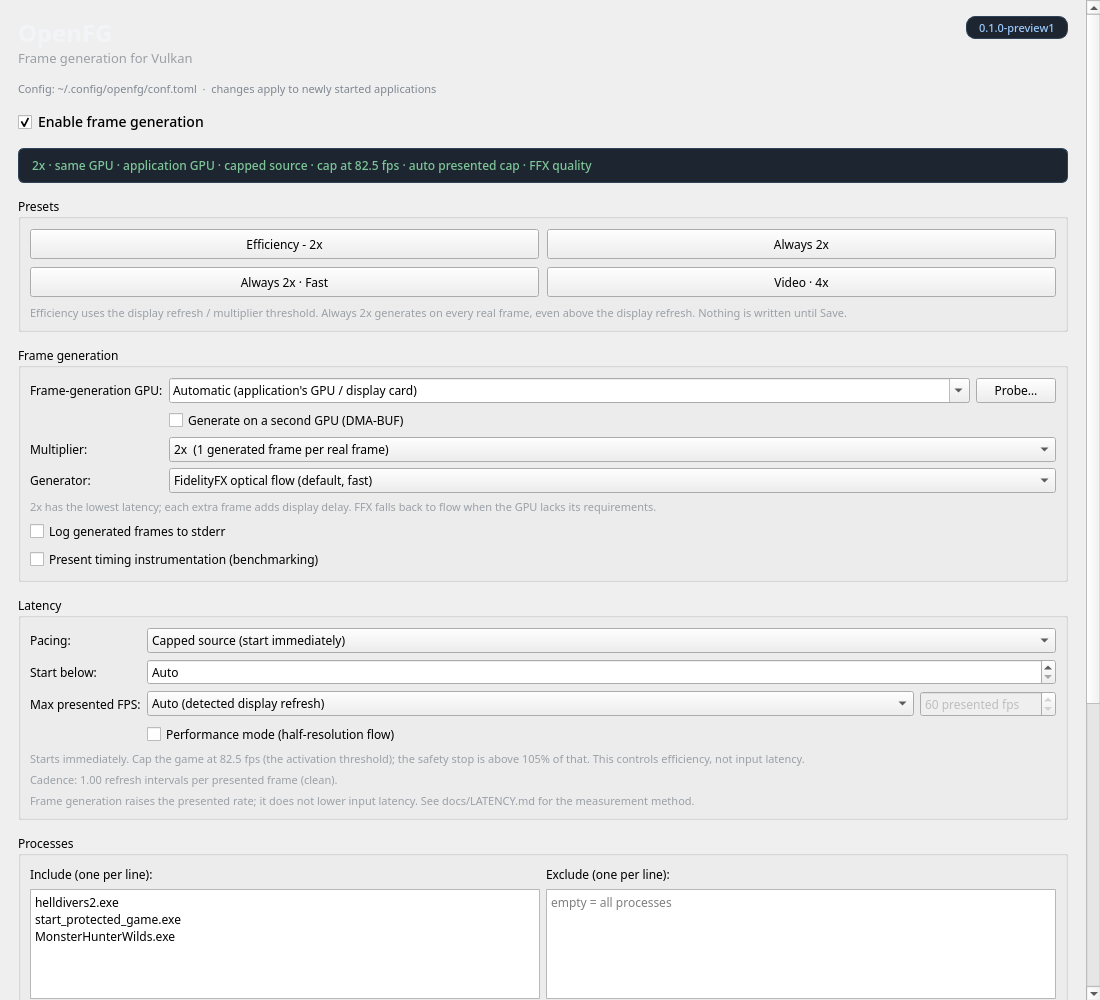
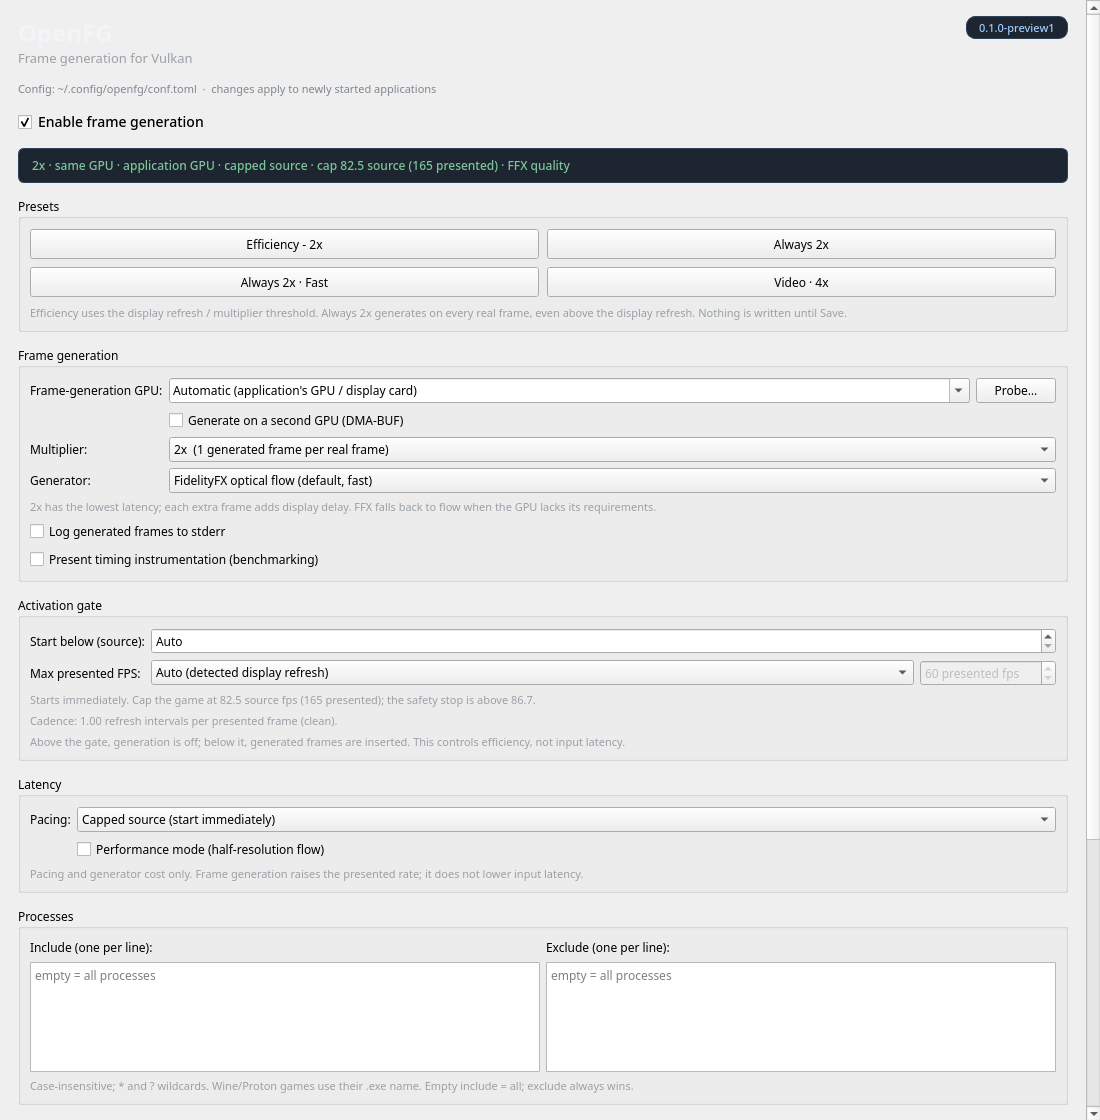
gui: make the gate a first-class section
Split the gate from latency, label Start below as a source rate, show the presented rate in the summary and notes, and warn when the gate exceeds the display. Keep the always-generate presets explicit and refresh the screenshot with generic process lists.

diff --git a/gui/openfg-gui.py b/gui/openfg-gui.py
@@ -582,24 +582,11 @@ class MainWindow(QtWidgets.QMainWindow):
 
         root.addWidget(settings)
 
-        # Latency settings
-        latency = QtWidgets.QGroupBox("Latency")
-        latency_layout = QtWidgets.QVBoxLayout(latency)
-        latency_form = QtWidgets.QFormLayout()
-        latency_form.setFieldGrowthPolicy(QtWidgets.QFormLayout.ExpandingFieldsGrow)
-
-        self.pacing = QtWidgets.QComboBox()
-        self.pacing.addItem("Adaptive (1 s threshold dwell)", "adaptive")
-        self.pacing.addItem("Capped source (start immediately)", "capped")
-        self.pacing.setSizePolicy(
-            QtWidgets.QSizePolicy.Expanding, QtWidgets.QSizePolicy.Fixed)
-        index = self.pacing.findData(self.config["pacing"])
-        self.pacing.setCurrentIndex(index if index >= 0 else 0)
-        self.pacing.setToolTip(
-            "Adaptive waits for a sustained drop below the target. Capped "
-            "starts immediately; cap the game yourself at refresh ÷ multiplier."
-        )
-        latency_form.addRow("Pacing:", self.pacing)
+        # Activation gate
+        gate = QtWidgets.QGroupBox("Activation gate")
+        gate_layout = QtWidgets.QVBoxLayout(gate)
+        gate_form = QtWidgets.QFormLayout()
+        gate_form.setFieldGrowthPolicy(QtWidgets.QFormLayout.ExpandingFieldsGrow)
 
         self.target_fps = QtWidgets.QSpinBox()
         self.target_fps.setRange(0, 1000)
@@ -610,21 +597,21 @@ class MainWindow(QtWidgets.QMainWindow):
             QtWidgets.QSizePolicy.Expanding, QtWidgets.QSizePolicy.Fixed)
         self.target_fps.setValue(self.config["target_fps"])
         self.target_fps.setToolTip(
-            "Manual activation threshold: start generation only below this "
-            "native rate. 0 = no manual threshold; the presented cap still "
-            "applies. The effective threshold is min(this, max presented / "
-            "multiplier). Use about 82 fps for 2x on 165 Hz."
+            "Manual source-rate gate: generate only below this native rate. "
+            "0 = no manual gate; the presented cap still applies. The "
+            "effective gate is min(this, max presented / multiplier). On "
+            "165 Hz with 2x, 82.5 source = 165 presented."
         )
-        self.target_note = hint("")
-        latency_form.addRow("Start below:", self.target_fps)
+        gate_form.addRow("Start below (source):", self.target_fps)
 
         self.max_presented = QtWidgets.QComboBox()
         self.max_presented.addItem("Off", 0)
         self.max_presented.addItem("Auto (detected display refresh)", -1)
         self.max_presented.addItem("Custom", 1)
         self.max_presented.setToolTip(
-            "Stop when presented fps would exceed this value. Auto reads the "
-            "display refresh; set OPENFG_REFRESH if detection fails."
+            "Presented-rate cap; also sets the automatic source gate = this / "
+            "multiplier. Auto reads the display refresh; Off disables the "
+            "gate. 165 presented with 2x = 82.5 source."
         )
         self.max_presented_spin = QtWidgets.QSpinBox()
         self.max_presented_spin.setRange(20, 1000)
@@ -646,8 +633,37 @@ class MainWindow(QtWidgets.QMainWindow):
         cap_row = QtWidgets.QHBoxLayout()
         cap_row.addWidget(self.max_presented, 1)
         cap_row.addWidget(self.max_presented_spin)
-        latency_form.addRow("Max presented FPS:", cap_row)
+        gate_form.addRow("Max presented FPS:", cap_row)
         self.max_presented_spin.setEnabled(self.max_presented.currentData() == 1)
+
+        self.target_note = hint("")
+        self.cadence_note = hint("")
+        gate_layout.addLayout(gate_form)
+        gate_layout.addWidget(self.target_note)
+        gate_layout.addWidget(self.cadence_note)
+        gate_layout.addWidget(hint(
+            "Above the gate, generation is off; below it, generated frames "
+            "are inserted. This controls efficiency, not input latency."))
+        root.addWidget(gate)
+
+        # Latency settings
+        latency = QtWidgets.QGroupBox("Latency")
+        latency_layout = QtWidgets.QVBoxLayout(latency)
+        latency_form = QtWidgets.QFormLayout()
+        latency_form.setFieldGrowthPolicy(QtWidgets.QFormLayout.ExpandingFieldsGrow)
+
+        self.pacing = QtWidgets.QComboBox()
+        self.pacing.addItem("Adaptive (1 s threshold dwell)", "adaptive")
+        self.pacing.addItem("Capped source (start immediately)", "capped")
+        self.pacing.setSizePolicy(
+            QtWidgets.QSizePolicy.Expanding, QtWidgets.QSizePolicy.Fixed)
+        index = self.pacing.findData(self.config["pacing"])
+        self.pacing.setCurrentIndex(index if index >= 0 else 0)
+        self.pacing.setToolTip(
+            "Adaptive waits for a sustained drop below the target. Capped "
+            "starts immediately; cap the game yourself at the source gate."
+        )
+        latency_form.addRow("Pacing:", self.pacing)
 
         self.performance = QtWidgets.QCheckBox(
             "Performance mode (half-resolution flow)")
@@ -659,13 +675,9 @@ class MainWindow(QtWidgets.QMainWindow):
         latency_form.addRow("", self.performance)
 
         latency_layout.addLayout(latency_form)
-        latency_layout.addWidget(self.target_note)
-        self.cadence_note = hint("")
-        latency_layout.addWidget(self.cadence_note)
         latency_layout.addWidget(hint(
-            "Frame generation raises the presented rate; it does not lower "
-            "input latency. See docs/LATENCY.md for the measurement method."))
-
+            "Pacing and generator cost only. Frame generation raises the "
+            "presented rate; it does not lower input latency."))
         root.addWidget(latency)
 
         # Process filters
@@ -878,25 +890,20 @@ class MainWindow(QtWidgets.QMainWindow):
             gpu = self._selected_gpu()
             gpu_text = "application GPU" if gpu == "auto" else gpu
             cross = "second GPU" if self.cross_gpu.isChecked() else "same GPU"
-            target = int(self.target_fps.value())
-            cap = int(self.max_presented.currentData())
             pacing = self.pacing.currentData()
             pacing_text = "capped source" if pacing == "capped" else "adaptive"
             threshold = self._effective_threshold()
             if pacing == "capped":
                 target_text = (
-                    f"cap at {threshold:.1f} fps" if threshold > 0
-                    else "always generating")
+                    f"cap {threshold:.1f} source "
+                    f"({threshold * multiplier:.0f} presented)"
+                    if threshold > 0 else "always generating")
             elif threshold > 0:
-                target_text = f"starts below {threshold:.1f} fps"
+                target_text = (
+                    f"gate {threshold:.1f} source "
+                    f"({threshold * multiplier:.0f} presented)")
             else:
-                target_text = "always generating"
-            if cap == -1:
-                cap_text = " · auto presented cap"
-            elif cap == 1:
-                cap_text = f" · ≤{self.max_presented_spin.value()} presented fps"
-            else:
-                cap_text = ""
+                target_text = f"always generating ({multiplier}× source)"
             gen = str(self.generator.currentData())
             gen_text = {"ffx": "FFX", "flow": "flow", "blend": "blend",
                         "hold": "hold", "off": "off"}.get(gen, gen)
@@ -905,7 +912,7 @@ class MainWindow(QtWidgets.QMainWindow):
                            else "quality")
                 gen_text += f" {quality}"
             text = (f"{multiplier}x · {cross} · {gpu_text} · {pacing_text} · "
-                    f"{target_text}{cap_text} · {gen_text}")
+                    f"{target_text} · {gen_text}")
             video_players = [line.strip() for line in
                              self.video_processes.toPlainText().splitlines() if line.strip()]
             if video_players:
@@ -944,15 +951,17 @@ class MainWindow(QtWidgets.QMainWindow):
         return cap_threshold
 
     def _update_cadence_note(self) -> None:
-        cap = int(self.max_presented.currentData())
         refresh = self.display_refresh if self.display_refresh >= 20 else 0.0
-        if cap == 0 or refresh <= 0:
+        multiplier = max(2, int(self.multiplier.currentData()))
+        threshold = self._effective_threshold()
+        if threshold <= 0 or refresh <= 0:
             self.cadence_note.setText("")
             return
-        presented = (
-            refresh if cap == -1 else float(self.max_presented_spin.value()))
-        if presented <= 0:
-            self.cadence_note.setText("")
+        presented = threshold * multiplier
+        if presented > refresh * 1.01:
+            self.cadence_note.setText(
+                f"Cadence: {presented:.0f} presented fps exceeds "
+                f"{refresh:.0f} Hz; frames will be dropped.")
             return
         ratio = refresh / presented
         nearest = round(ratio)
@@ -969,44 +978,40 @@ class MainWindow(QtWidgets.QMainWindow):
 
     def _update_target_note(self) -> None:
         self._update_cadence_note()
-        if self.pacing.currentData() == "capped":
-            threshold = self._effective_threshold()
-            if threshold > 0:
-                self.target_note.setText(
-                    f"Starts immediately. Cap the game at {threshold:.1f} fps "
-                    "(the activation threshold); the safety stop is above "
-                    "105% of that. This controls efficiency, not input "
-                    "latency.")
-            else:
-                self.target_note.setText(
-                    "Starts immediately. No activation threshold: cap the "
-                    "game or generation runs on every real frame. This "
-                    "controls efficiency, not input latency.")
-            return
         threshold = self._effective_threshold()
         target = int(self.target_fps.value())
         cap_threshold = self._cap_threshold()
+        multiplier = max(2, int(self.multiplier.currentData()))
+        if self.pacing.currentData() == "capped":
+            if threshold > 0:
+                self.target_note.setText(
+                    f"Starts immediately. Cap the game at {threshold:.1f} "
+                    f"source fps ({threshold * multiplier:.0f} presented); "
+                    f"the safety stop is above {threshold * 1.05:.1f}.")
+            else:
+                self.target_note.setText(
+                    "Starts immediately. No gate: every real frame is generated.")
+            return
         if threshold <= 0:
             self.target_note.setText(
-                "No automatic threshold: generates on every real frame; each "
-                "multiplier adds display delay.")
+                "No gate: every real frame is generated. Presented is "
+                f"{multiplier}× source and can exceed the display.")
         elif target <= 0:
             self.target_note.setText(
-                f"Auto threshold: {threshold:.1f} fps "
-                f"(display refresh / multiplier). Above this, OpenFG stays "
-                "off. This controls efficiency, not input latency.")
+                f"Auto gate: {threshold:.1f} source fps "
+                f"({threshold * multiplier:.0f} presented with {multiplier}x).")
         elif cap_threshold > 0 and target > cap_threshold:
             self.target_note.setText(
-                f"Manual target {target} fps is above the automatic cap "
-                f"{cap_threshold:.1f} fps; the effective threshold is "
-                f"{cap_threshold:.1f} fps. Turn the presented cap off to use "
-                "the manual value (it can exceed the display). This controls "
-                "efficiency, not input latency.")
+                f"Manual {target} is above the automatic {cap_threshold:.1f} "
+                f"source gate; effective gate {cap_threshold:.1f} source "
+                f"({cap_threshold * multiplier:.0f} presented). Turn the "
+                f"presented cap off to use {target} "
+                f"({target * multiplier:.0f} presented; it can exceed the "
+                "display).")
         else:
             self.target_note.setText(
-                f"Manual threshold: {target} fps; automatic cap "
-                f"{cap_threshold:.1f} fps. Above this, OpenFG stays off. "
-                "This controls efficiency, not input latency.")
+                f"Manual gate: {target} source fps "
+                f"({target * multiplier:.0f} presented with {multiplier}x).")
 
     def _collect(self) -> dict:
         return {

diff --git a/src/config/config.cpp b/src/config/config.cpp
@@ -826,7 +826,8 @@ target_fps = 0
 
 # Cap presented frames per second and set the automatic activation threshold:
 # source threshold = this value / multiplier. -1 = detected display refresh
-# (the efficiency default), 0 = off, or an explicit value such as 165.
+# (recommended for efficiency), 0 = off (always generate), or an explicit
+# value such as 165.
 max_presented_fps = 0
 
 # Half-resolution flow: for flow it also narrows refinement; for ffx it runs

diff --git a/README.md b/README.md
@@ -67,8 +67,9 @@ process loads it; the config decides whether it is active. Use
 
 ## Control panel
 
-`openfg-gui` edits the same file. It includes presets, a GPU capability probe,
-process/video profiles and a live summary of the effective mode.
+`openfg-gui` edits the same file. It includes presets, the activation gate, a
+GPU capability probe, process/video profiles and a live summary of the
+effective mode.
 
 ![OpenFG Control](docs/assets/openfg-control.png)
 
@@ -92,6 +93,10 @@ automatic threshold is **display refresh ÷ multiplier**:
 | 165 Hz | 82.5 fps | 55 fps | 41.25 fps |
 | 144 Hz | 72 fps | 48 fps | 36 fps |
 | 120 Hz | 60 fps | 40 fps | 30 fps |
+
+The threshold is a **source** rate. With 2x, 82.5 source = 165 presented;
+120 source would be 240 presented, beyond a 165 Hz display. The UI labels it
+**Start below (source)**.
 
 Above that rate (with a small hysteresis band) the layer turns off: no
 generated frames, no generator work and no added display delay. That is what
@@ -145,7 +150,7 @@ The layer reads `$XDG_CONFIG_HOME/openfg/conf.toml`, falling back to
 | `generator` | `"ffx"` | `ffx`, `flow`, `blend`, `hold` or `off`. |
 | `performance_mode` | `false` | Half-resolution flow: cheaper, slightly softer edges. |
 | `pacing` | `"adaptive"` | `adaptive` waits for a sustained drop; `capped` starts immediately. |
-| `target_fps` | `0` | Manual activation threshold. `0` = no manual threshold; the presented cap still applies. The effective threshold is `min(target_fps, max_presented_fps / multiplier)`. |
+| `target_fps` | `0` | Manual source-rate threshold. `0` = no manual threshold; the presented cap still applies. The effective threshold is `min(target_fps, max_presented_fps / multiplier)`. |
 | `max_presented_fps` | `0` | Presented-frame cap; also sets the automatic activation threshold when non-zero. `-1` = detected display refresh; `0` = off. |
 | `present_timing` | `false` | Present-id/wait latency instrumentation. |
 | `debug` | `false` | Per-frame logging to stderr. |

diff --git a/docs/LATENCY.md b/docs/LATENCY.md
@@ -50,7 +50,9 @@ around 41. Dividing evenly matters too: 60 or 120 presented fps on 165 Hz is
 vblanks. A 120 Hz display mode makes 60 and 120 presented fps exact.
 `max_presented_fps = -1` derives that cap from the detected display
 refresh automatically. `target_fps` remains a manual activation threshold;
-when both are set, the stricter one wins. Above the effective threshold the
+when both are set, the stricter one wins. The UI calls it **Start below
+(source)**; both values are source rates, and the presented rate is
+`source × multiplier`. Above the effective threshold the
 layer stays off, which is the efficiency feature, not a latency reduction.
 For lower latency, raise the source rate (30→60, 60→120, or ~82→164 on
 165 Hz) rather than raising the threshold; a higher threshold only decides
